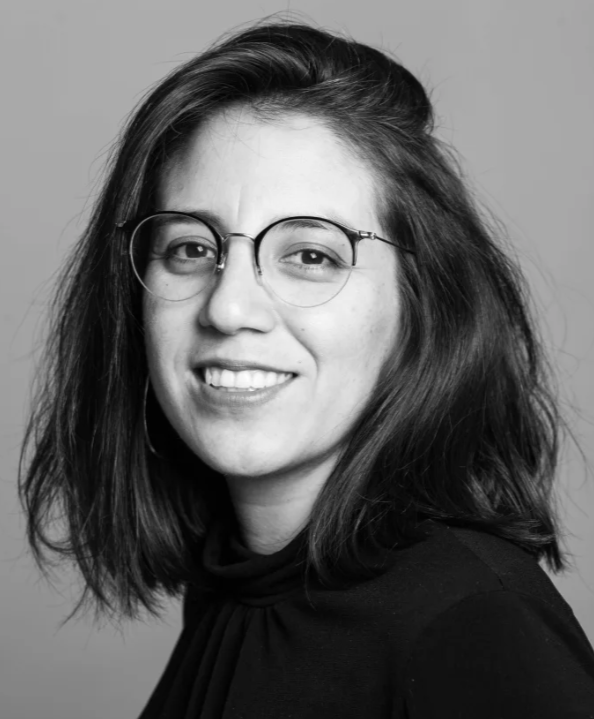
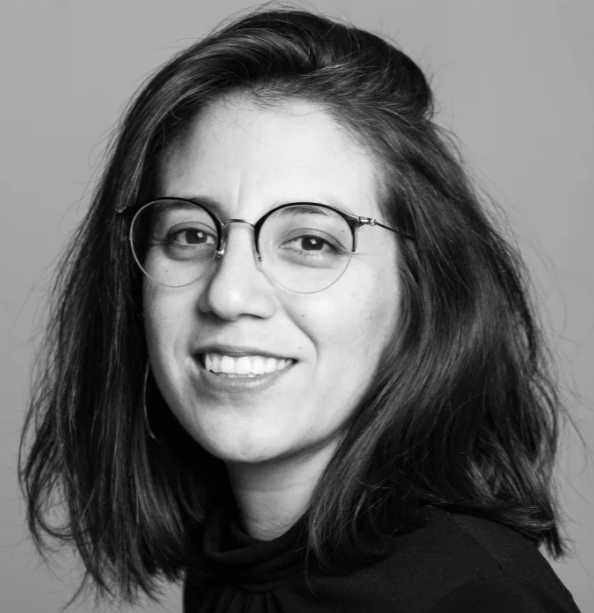
Centrado y estilización de tarjetas de usuarios
Se hicieron los cambios necesarios para mejorar la presentación de los estudiantes, como tarjetas uno junto al otro y sus estilos. Además de agregar nuevos estudiantes y mejorar la barra de navegación en unos pequeños detalles

Changed region(s): [[0.0303, 0.0, 1.0, 1.0], [0.7576, 0.8059, 0.7879, 0.8369], [0.697, 0.8059, 0.7273, 0.8369]]

diff --git a/HTML/index.html b/HTML/index.html
@@ -44,7 +44,7 @@
         </a>
 
         <a class="header-component"  href="headerComponentes/perfilEstudiante.html" >
-            <img id="header-perfil-img" src="../recursos/imagenes/perfilEstudiante.png" alt="Icono-estudiante" width="40" height="50">
+            <img id="header-perfil-img" src="../recursos/imagenes/perfilMainEstudiante.jpg" alt="Icono-estudiante" width="40" height="50">
             KEVIN LEONEL TORRES MONTAÑEZ
         </a>
         
@@ -85,8 +85,8 @@
 
         <section class="estudiante">
             <!-- perfiles de usuarios -->
-            <div >
-                <div>
+            <div  >
+                <div id="usuario1">
                     <img class="estudiante-img" src="../recursos/imagenes/usuarios/usuario1.png" alt="Perfil" width="150" height="200">
                     <h3>Fernando Rojas</h3>
                     <p>Ing. Electronico</p>
@@ -113,8 +113,8 @@
                 <br>
                 <br>
 
-                <div>
-                    <img src="../recursos/imagenes/usuarios/usuario2.png" alt="Perfil" width="150" height="200">
+                <div id="usuario2">
+                    <img class="estudiante-img" src="../recursos/imagenes/usuarios/usuario2.png" alt="Perfil" width="150" height="200">
                     <h3>Mary Castellanos</h3>
                     <p>Diseñadora de modas</p>
                     
@@ -140,8 +140,8 @@
                 <br>
                 <br>
 
-                <div>
-                    <img src="../recursos/imagenes/usuarios/usuario3.png" alt="Perfil" width="150" height="200">
+                <div id="usuario3">
+                    <img class="estudiante-img" src="../recursos/imagenes/usuarios/usuario3.png" alt="Perfil" width="150" height="200">
                     <h3>Barry Allen</h3>
                     <p>Forense Criminal</p>
                     
@@ -167,8 +167,8 @@
                 <br>
                 <br>
 
-                <div>
-                    <img src="../recursos/imagenes/usuarios/usuario4.png" alt="Perfil" width="150" height="200">
+                <div id="usuario4">
+                    <img class="estudiante-img" src="../recursos/imagenes/usuarios/usuario4.png" alt="Perfil" width="150" height="200">
                     <h3>Clark Kent</h3>
                     <p>Reportero </p>
                     
@@ -190,6 +190,146 @@
                         </a>
                     </div>
                 </div>
+
+                <br>
+                <div  >
+                    <div id="usuario1">
+                        <img class="estudiante-img" src="../recursos/imagenes/usuarios/usuario6.jpg" alt="Perfil" width="150" height="200">
+                        <h3>Kevin Torres</h3>
+                        <p>Ing. de Sistemas</p>
+                        
+                        <!-- botonn Ver -->
+                        <a href="perfilesUsuarios/perfilUsuario1.html">
+                            <img src="../recursos/imagenes/botonVer.png" alt="Ver perfil" width="60" height="30">
+                        </a>
+                
+                        <!-- botones de redes sociales del uduario -->
+                        <div class="social-icons">
+                            <a href="https://linkedin.com" target="_blank">
+                                <img src="../recursos/imagenes/logosRedesSociales/logoLinkedlin.png" alt="LinkedIn" width="30" height="30">
+                            </a>
+                            <a href="https://twitter.com" target="_blank">
+                                <img src="../recursos/imagenes/logosRedesSociales/twitterLogo.png" alt="Twitter" width="30" height="30">
+                            </a>
+                            <a href="https://facebook.com" target="_blank">
+                                <img src="../recursos/imagenes/logosRedesSociales/logoFacebook.png" alt="Facebook" width="30" height="30">
+                            </a>
+                        </div>
+                    </div>
+                </div>
+
+                <br>
+
+                <div  >
+                    <div id="usuario1">
+                        <img class="estudiante-img" src="../recursos/imagenes/usuarios/usuario5.jpg" alt="Perfil" width="150" height="200">
+                        <h3>Bruce Wayne</h3>
+                        <p>Vigilante nocturno</p>
+                        
+                        <!-- botonn Ver -->
+                        <a href="perfilesUsuarios/perfilUsuario1.html">
+                            <img src="../recursos/imagenes/botonVer.png" alt="Ver perfil" width="60" height="30">
+                        </a>
+                
+                        <!-- botones de redes sociales del uduario -->
+                        <div class="social-icons">
+                            <a href="https://linkedin.com" target="_blank">
+                                <img src="../recursos/imagenes/logosRedesSociales/logoLinkedlin.png" alt="LinkedIn" width="30" height="30">
+                            </a>
+                            <a href="https://twitter.com" target="_blank">
+                                <img src="../recursos/imagenes/logosRedesSociales/twitterLogo.png" alt="Twitter" width="30" height="30">
+                            </a>
+                            <a href="https://facebook.com" target="_blank">
+                                <img src="../recursos/imagenes/logosRedesSociales/logoFacebook.png" alt="Facebook" width="30" height="30">
+                            </a>
+                        </div>
+                    </div>
+                </div>
+
+                <br>
+
+                <div  >
+                    <div id="usuario1">
+                        <img class="estudiante-img" src="../recursos/imagenes/usuarios/usuario1.png" alt="Perfil" width="150" height="200">
+                        <h3>Fernando Rojas</h3>
+                        <p>Ing. Electronico</p>
+                        
+                        <!-- botonn Ver -->
+                        <a href="perfilesUsuarios/perfilUsuario1.html">
+                            <img src="../recursos/imagenes/botonVer.png" alt="Ver perfil" width="60" height="30">
+                        </a>
+                
+                        <!-- botones de redes sociales del uduario -->
+                        <div class="social-icons">
+                            <a href="https://linkedin.com" target="_blank">
+                                <img src="../recursos/imagenes/logosRedesSociales/logoLinkedlin.png" alt="LinkedIn" width="30" height="30">
+                            </a>
+                            <a href="https://twitter.com" target="_blank">
+                                <img src="../recursos/imagenes/logosRedesSociales/twitterLogo.png" alt="Twitter" width="30" height="30">
+                            </a>
+                            <a href="https://facebook.com" target="_blank">
+                                <img src="../recursos/imagenes/logosRedesSociales/logoFacebook.png" alt="Facebook" width="30" height="30">
+                            </a>
+                        </div>
+                    </div>
+                </div>
+
+                <br>
+
+                <div  >
+                    <div id="usuario1">
+                        <img class="estudiante-img" src="../recursos/imagenes/usuarios/usuario1.png" alt="Perfil" width="150" height="200">
+                        <h3>Fernando Rojas</h3>
+                        <p>Ing. Electronico</p>
+                        
+                        <!-- botonn Ver -->
+                        <a href="perfilesUsuarios/perfilUsuario1.html">
+                            <img src="../recursos/imagenes/botonVer.png" alt="Ver perfil" width="60" height="30">
+                        </a>
+                
+                        <!-- botones de redes sociales del uduario -->
+                        <div class="social-icons">
+                            <a href="https://linkedin.com" target="_blank">
+                                <img src="../recursos/imagenes/logosRedesSociales/logoLinkedlin.png" alt="LinkedIn" width="30" height="30">
+                            </a>
+                            <a href="https://twitter.com" target="_blank">
+                                <img src="../recursos/imagenes/logosRedesSociales/twitterLogo.png" alt="Twitter" width="30" height="30">
+                            </a>
+                            <a href="https://facebook.com" target="_blank">
+                                <img src="../recursos/imagenes/logosRedesSociales/logoFacebook.png" alt="Facebook" width="30" height="30">
+                            </a>
+                        </div>
+                    </div>
+                </div>
+
+                <br>
+
+                <div  >
+                    <div id="usuario1">
+                        <img class="estudiante-img" src="../recursos/imagenes/usuarios/usuario1.png" alt="Perfil" width="150" height="200">
+                        <h3>Fernando Rojas</h3>
+                        <p>Ing. Electronico</p>
+                        
+                        <!-- botonn Ver -->
+                        <a href="perfilesUsuarios/perfilUsuario1.html">
+                            <img src="../recursos/imagenes/botonVer.png" alt="Ver perfil" width="60" height="30">
+                        </a>
+                
+                        <!-- botones de redes sociales del uduario -->
+                        <div class="social-icons">
+                            <a href="https://linkedin.com" target="_blank">
+                                <img src="../recursos/imagenes/logosRedesSociales/logoLinkedlin.png" alt="LinkedIn" width="30" height="30">
+                            </a>
+                            <a href="https://twitter.com" target="_blank">
+                                <img src="../recursos/imagenes/logosRedesSociales/twitterLogo.png" alt="Twitter" width="30" height="30">
+                            </a>
+                            <a href="https://facebook.com" target="_blank">
+                                <img src="../recursos/imagenes/logosRedesSociales/logoFacebook.png" alt="Facebook" width="30" height="30">
+                            </a>
+                        </div>
+                    </div>
+                </div>
+
             </div>
         </section>        
     </main>

diff --git a/CSS/styles.css b/CSS/styles.css
@@ -39,6 +39,8 @@
 }
 
 #header-perfil-img{
+    width: 40px;
+    height: 40px;
     border-radius: 100%;
 }
 
@@ -66,9 +68,26 @@
 }
 
 
+.estudiante > div {
+    display: flex;
+    flex-wrap: wrap; /*pemite que las tarjetas pasen a la siguiente fila si no caben */
+    gap: 20px; /*espacio entre tarjetas */
+    justify-content: center; 
+}
 
+.estudiante > div > div {
+    background: rgb(239, 236, 236); /*color de fondo */
+    padding: 15px;
+    border-radius: 10px;
+    text-align: center;
+    width: 220px;
+    box-shadow: 2px 2px 5px rgba(0, 0, 0, 0.1); /*para dar sombra a las tarjetas*/
+}
 
 
 .estudiante-img{
-
+    width: 200px;
+    height: 200px;
+    border-radius: 100%;
 }
+
